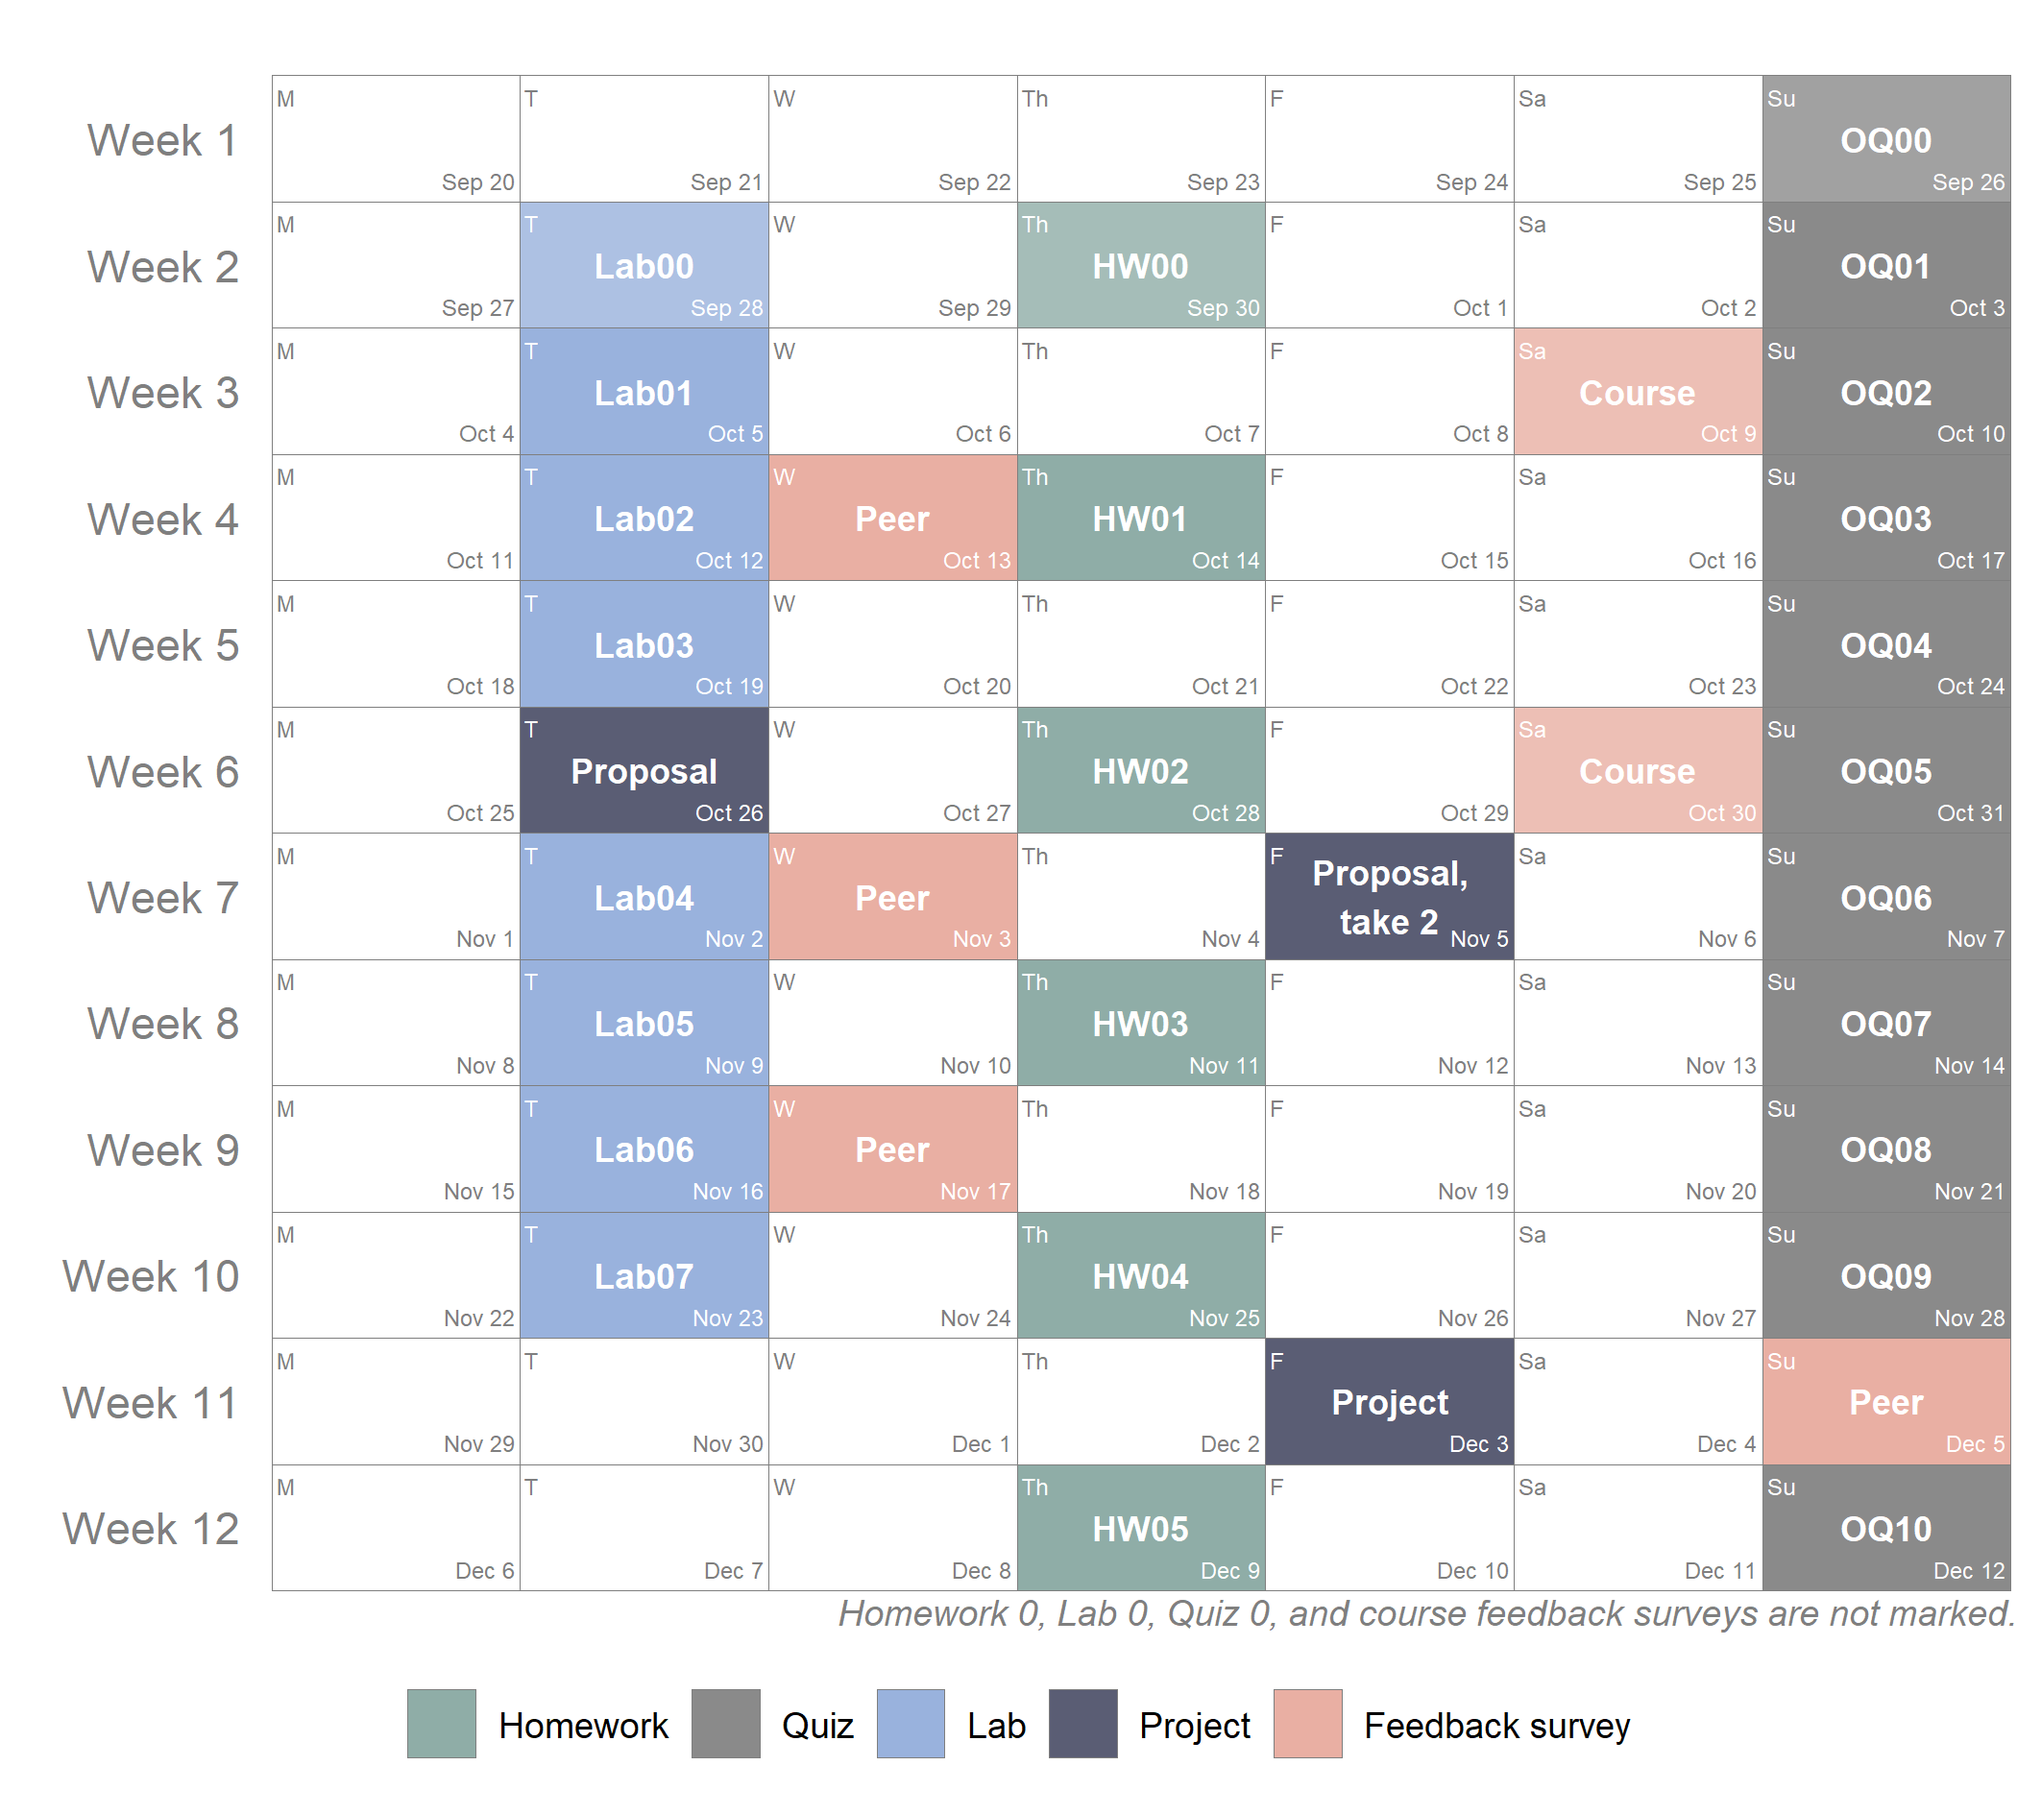
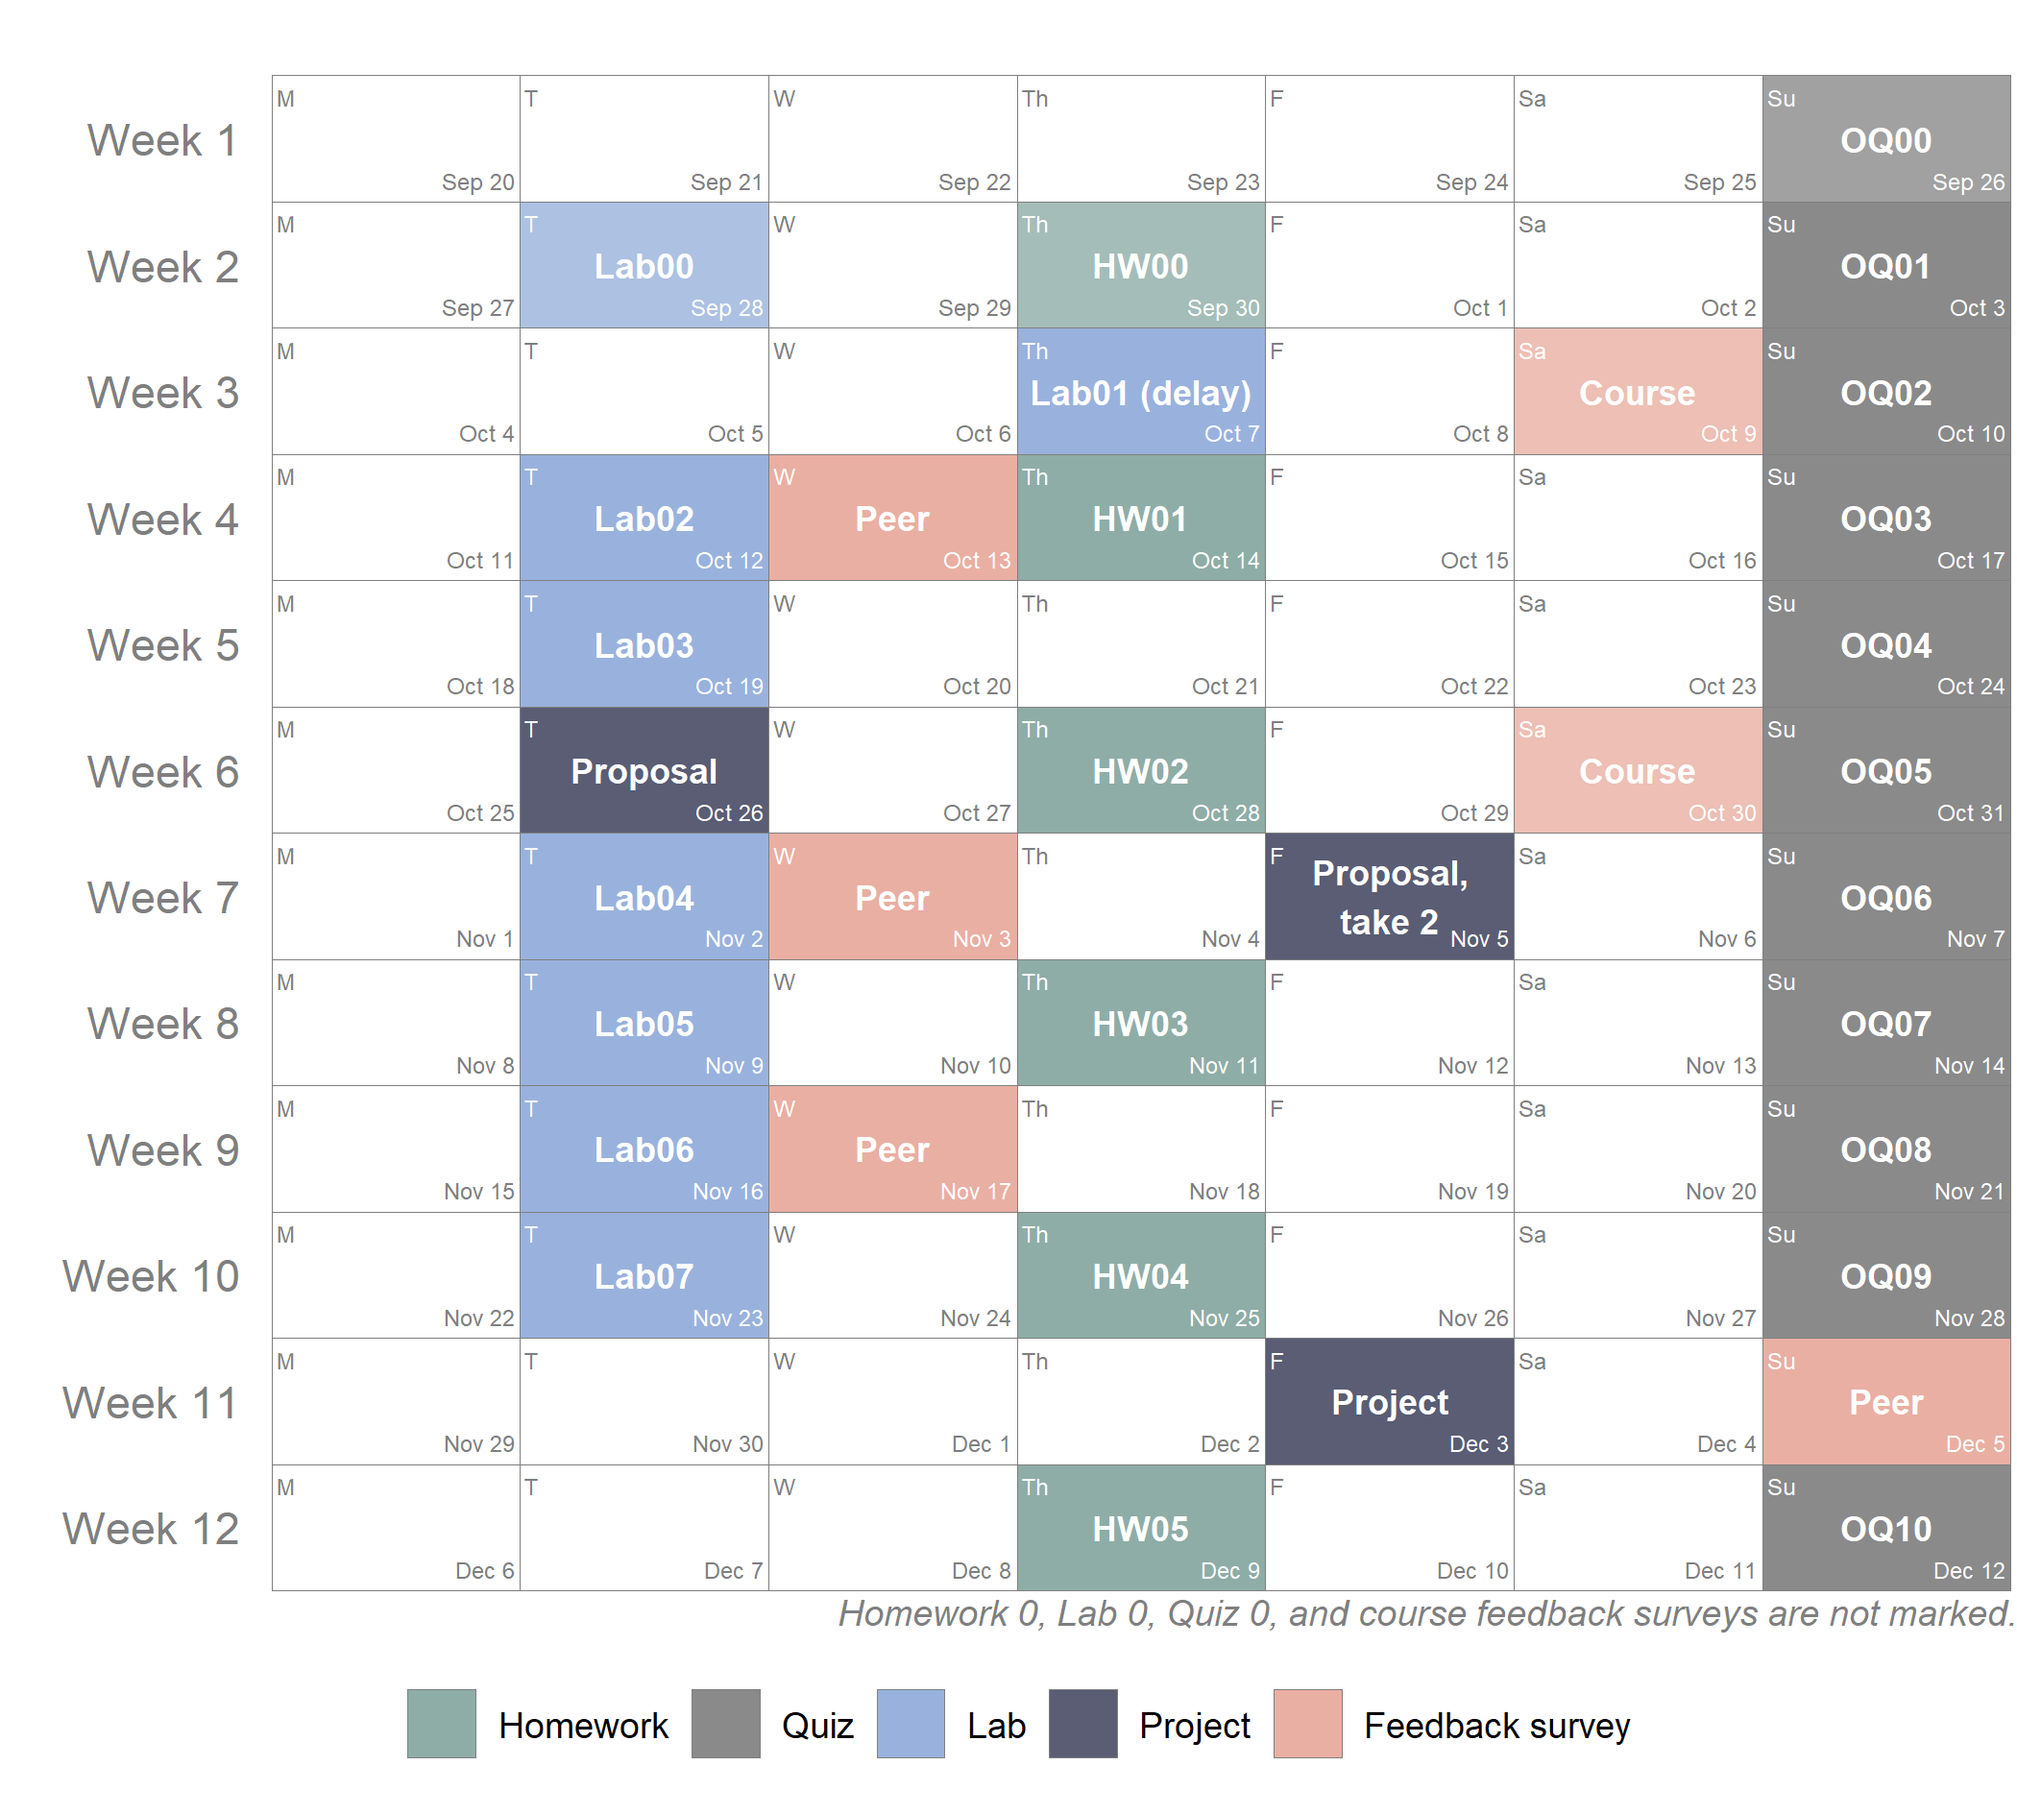
delayed lab01 deadline

Changed region(s): [[0.4952, 0.1562, 0.65, 0.2499], [0.2476, 0.1562, 0.4024, 0.2499]]

diff --git a/content/week03/_index.en.md b/content/week03/_index.en.md
@@ -46,7 +46,7 @@ Data visualization and interpretation of graphical information.
 | <div style="width:300px;text-align:left">Assignment Title</div> | <div style="width:170px;text-align:left">Links</div> | <div style="width:180px;text-align:left">Due</div> |
 |:---|:---|:---|
 | *Due this week* | | | 
-| Lab01: Plastic waste | <li><a id="LAB1I">Instructions</a></li> <li><a id="LAB1R">Repository</a></li> | Tue, 05 Oct, 16:00 UK |
+| Lab01: Plastic waste | <li><a id="LAB1I">Instructions</a></li> <li><a id="LAB1R">Repository</a></li> | Thurs, 07 Oct, 16:00 UK (Delayed) |
 | OQ02: Data Wrangling | <li><a id="OQ2">Quiz</a></li> | Sun, 10 Oct, 23:59 UK |
 | *Due next week* | | | 
 | Lab02: Take a Sad Plot and Make it Better | <li><a id="LAB2I">Instructions</a></li> <li><a id="LAB2R">Repository</a></li> | Tue, 12 Oct, 16:00 UK  |
